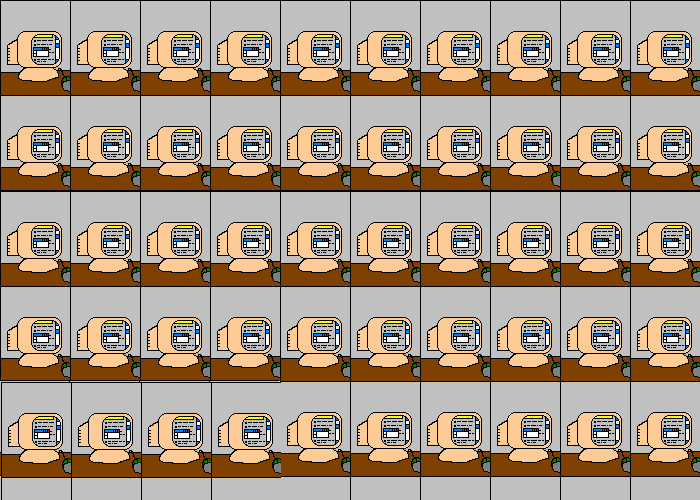
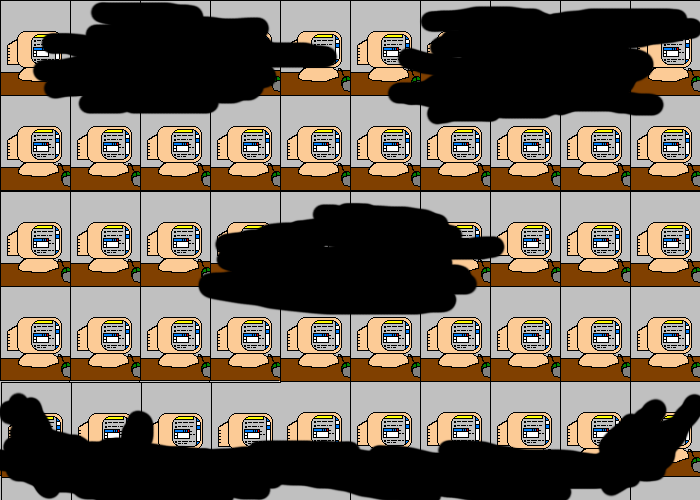
New background, now displays background

diff --git a/gamescreen.py b/gamescreen.py
@@ -21,10 +21,16 @@ def get_card_sprite(x, y, card_id):
 	return _img_cache[key]
 
 class CardImg(Sprite):
-	"""Helper/Wrapper class for renderinmg images.
+	"""Helper/Wrapper class for rendering images.
 	"""
 	def __init__(self, x, y, card_id):
 		super(CardImg, self).__init__(x, y, "images/{0}.png".format(card_id.lower()))
+		
+class BkgImg(Sprite):
+	"""Helper/Wrapper class for rendering background.
+	"""
+	def __init__(self, x, y):
+		super(BkgImg, self).__init__(x, y, "images/background.png")
 		
 class PlayAgainScreen(Screen):
 	"""Asks the user if they wish to play again
@@ -307,7 +313,7 @@ class GameScreen(Screen):
 		self._handle_time(refresh_time)
 		
 		# Set the background
-		self.shape_renderer.render_rect((0, 0, self._screen_size[0], self._screen_size[1]), color=colors.DARK_GRAY)
+		self.sprite_renderer.render(BkgImg(0, 0))
 		
 		# Shortcut named variable
 		ss = self._screen_size
